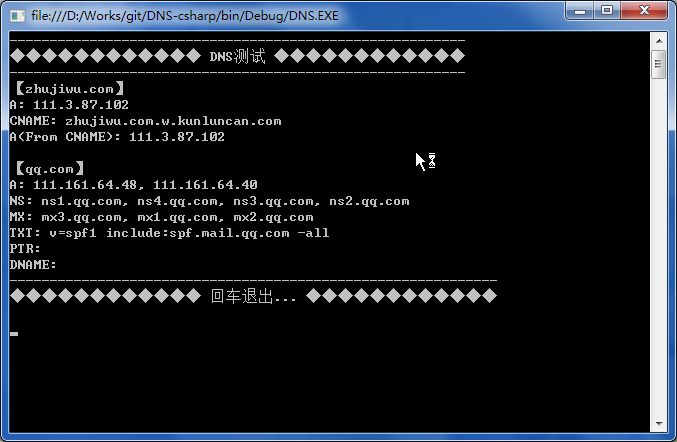
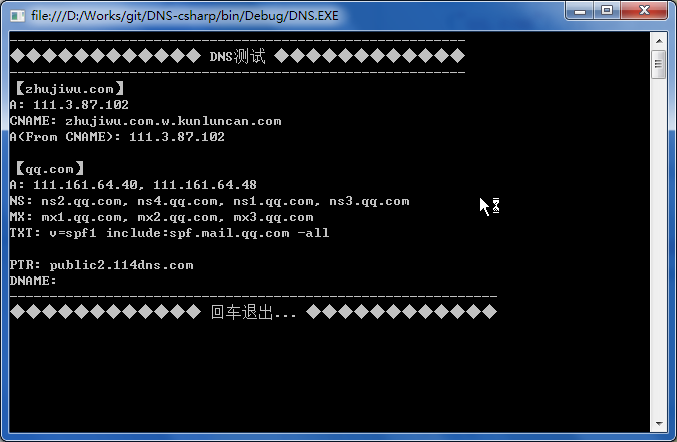
修改PTR查询

diff --git a/DNS.cs b/DNS.cs
@@ -4,6 +4,7 @@ using System.Linq;
 using System.Net;
 using System.Runtime.InteropServices;
 using System.Text;
+using System.Text.RegularExpressions;
 using System.Threading.Tasks;
 
 namespace DNS {
@@ -64,6 +65,19 @@ namespace DNS {
 		protected override string GetVal(object obj) {
 			return Marshal.PtrToStringUni(((PTR)obj).pNameHost);
 		}
+		static private Regex exp = new Regex(@"^(\d+)\.(\d+)\.(\d+)\.(\d+)$");
+		protected override Result<string> TransformDomain(string domain) {
+			var m = exp.Match(domain);
+			if (m.Success) {
+				domain = m.Groups[4].Value
+					+ "." + m.Groups[3].Value
+					+ "." + m.Groups[2].Value
+					+ "." + m.Groups[1].Value
+					+ ".in-addr.arpa";
+			}
+
+			return base.TransformDomain(domain);
+		}
 	}
 	public class DNS_TXT : DNSBase {
 		[StructLayout(LayoutKind.Sequential)]
@@ -83,6 +97,14 @@ namespace DNS {
 	public abstract class DNSBase {
 		abstract protected Type RecordType { get; }
 		abstract protected string GetVal(object obj);
+		/// <summary>
+		/// 如果此查询需要对域名进行特殊处理，就处理一下
+		/// </summary>
+		protected virtual Result<string> TransformDomain(string domain) {
+			var rtv = new Result<string>();
+			rtv.Value = domain;
+			return rtv;
+		}
 
 		static private Dictionary<string, int> Types = new Dictionary<string, int>();
 		/// <summary>
@@ -133,6 +155,13 @@ namespace DNS {
 				return rtv;
 			}
 			try {
+				var tdRes = TransformDomain(domain);
+				if (tdRes.IsError) {
+					tdRes.errorTo(rtv);
+					return rtv;
+				}
+				domain = tdRes.Value;
+
 				IntPtr ptr1 = IntPtr.Zero;
 				IntPtr ptr2 = IntPtr.Zero;
 				Record rec;

diff --git a/Program.cs b/Program.cs
@@ -24,7 +24,11 @@ namespace DNS {
 			Console.WriteLine("NS: " + new DNS_NS().QueryAll("qq.com").Value.join(", "));
 			Console.WriteLine("MX: " + new DNS_MX().QueryAll("qq.com").Value.join(", "));
 			Console.WriteLine("TXT: " + new DNS_TXT().QueryAll("qq.com").Value.join(", "));
-			Console.WriteLine("PTR: " + new DNS_PTR().QueryAll(a[0]).Value.join(", "));
+
+			Console.WriteLine("");
+
+			//114.114.115.115 dns反查
+			Console.WriteLine("PTR: " + new DNS_PTR().QueryAll("114.114.115.115").Value.join(", "));
 
 			//扩展的查询方法
 			Console.WriteLine("DNAME: " + new DNS_DNAME().QueryAll("qq.com").Value.join(", "));
